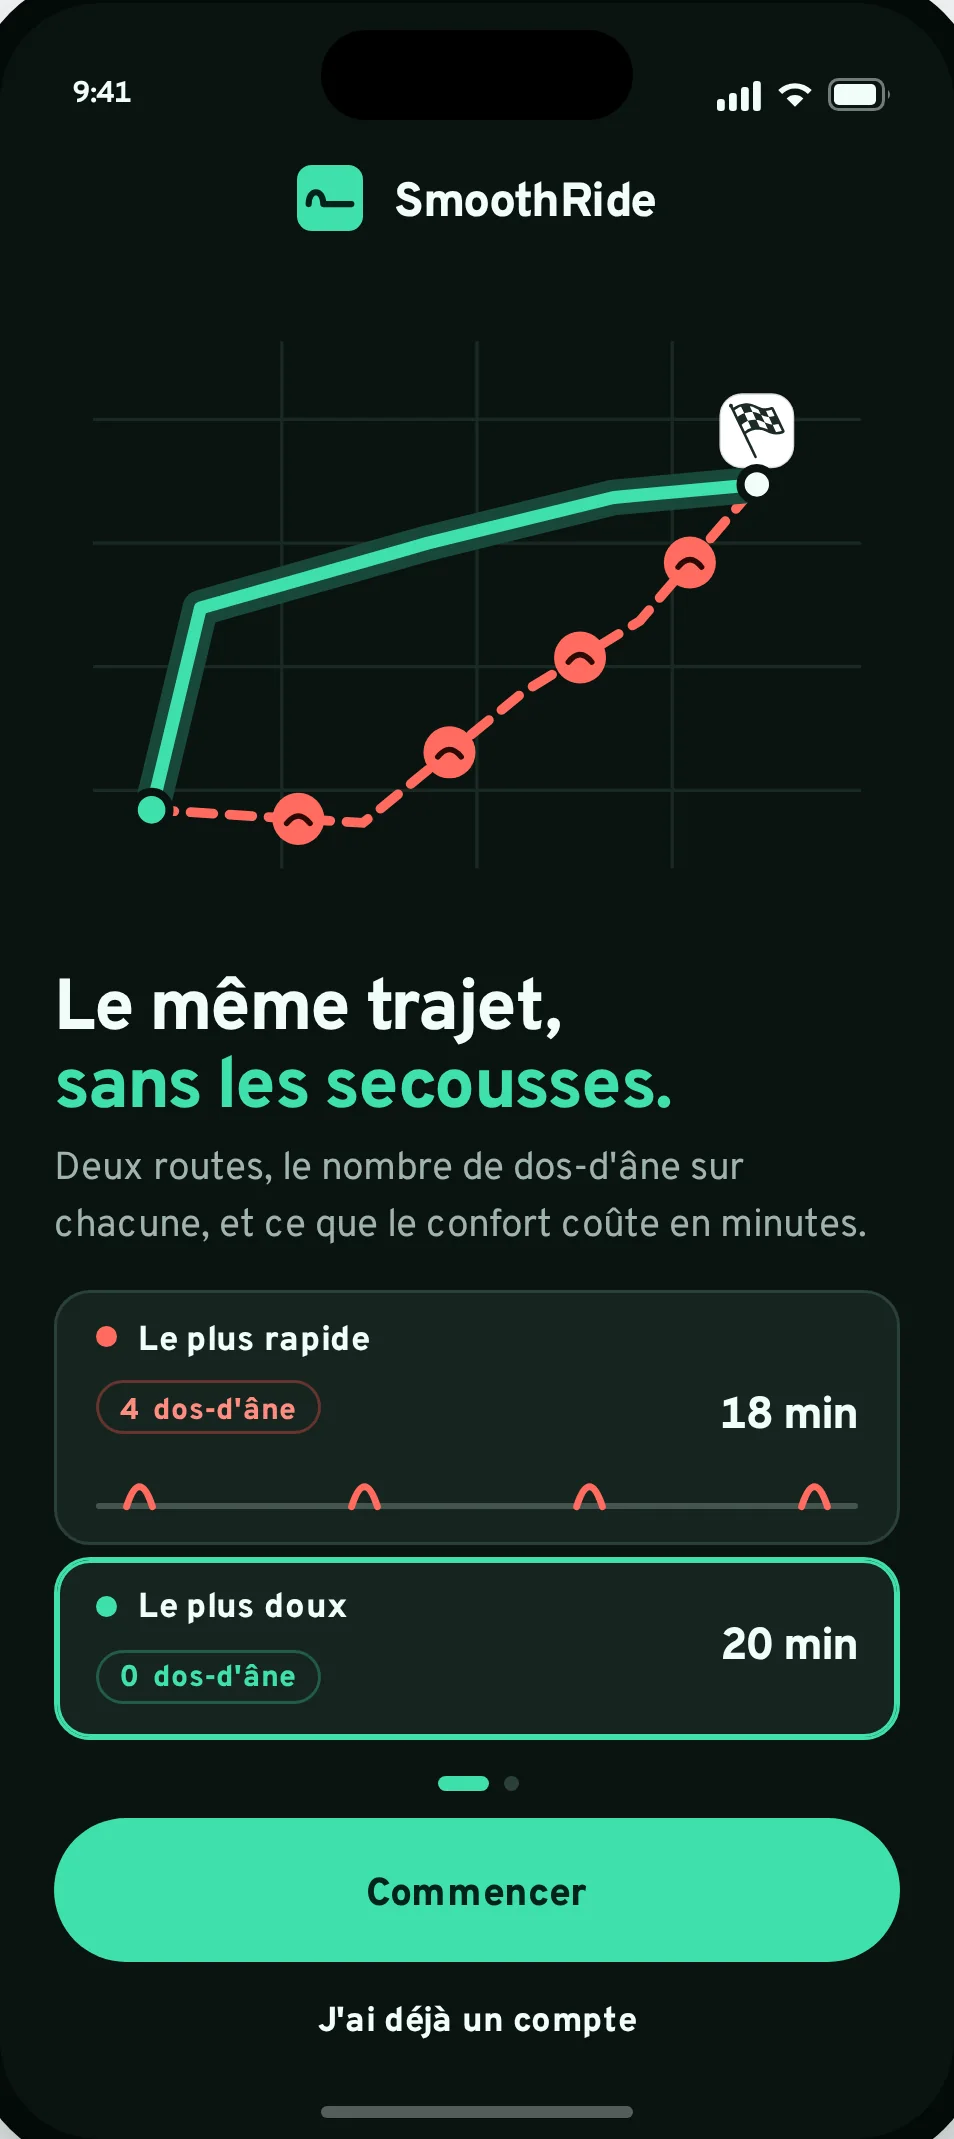
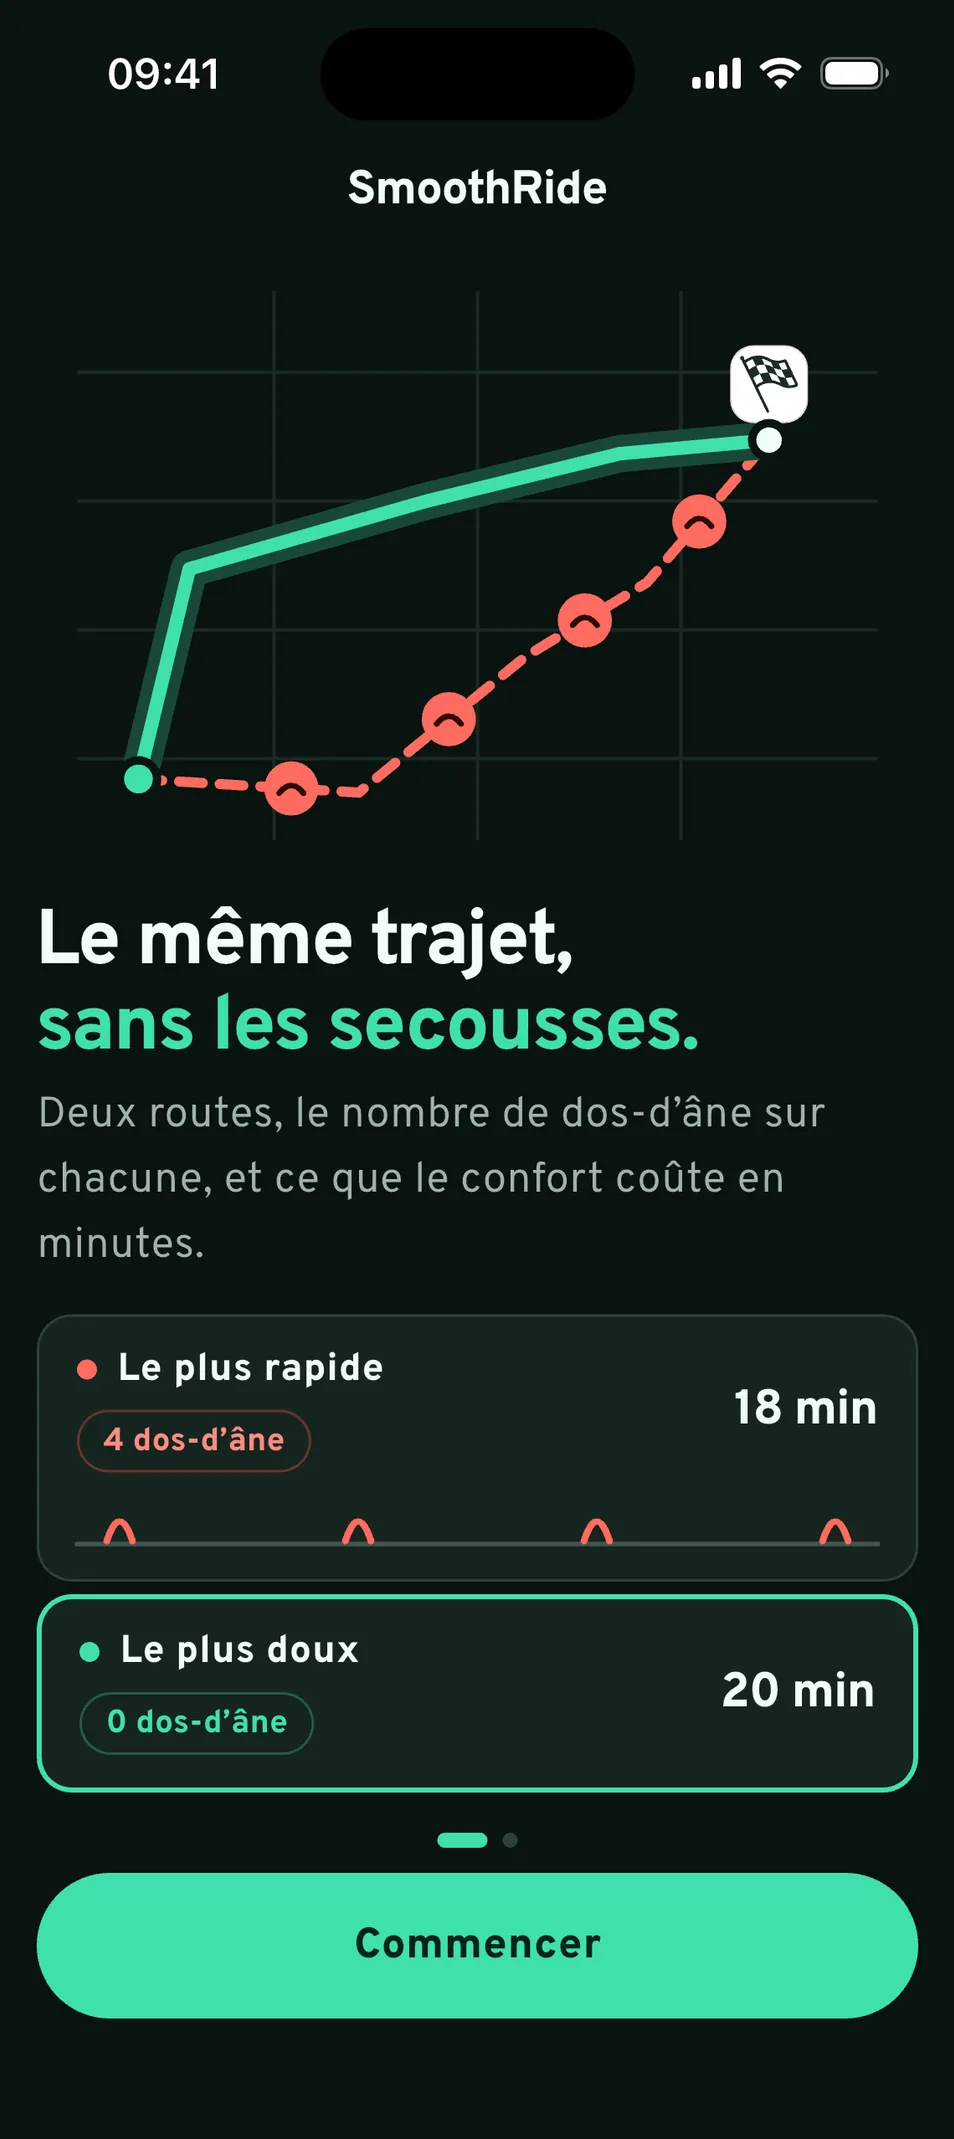
L'onboarding du hero et la FAQ disent ce que l'app fait
Le hero montrait un rendu de maquette, avec une ligne « J'ai deja un
compte » que le premier ecran de l'app ne porte pas. Remplace par la
vraie capture, barre d'etat figee comme les trois autres, batterie au
repos : le visiteur voit l'ecran qu'il aura.

La FAQ affirmait que la position n'est lue « que pendant que l'app est
ouverte, jamais en arriere-plan ». C'est faux et c'est la phrase qu'un
examinateur Apple compare a la declaration de confidentialite : pendant
un trajet, le guidage continue ecran eteint, sinon il s'arreterait au
premier appel. Hors trajet, rien n'est lu. Une phrase rassurante et
fausse coute plus cher qu'une phrase absente.

diff --git a/src/pages/Support.tsx b/src/pages/Support.tsx
@@ -38,7 +38,7 @@ export default function Support() {
       <Section titre="Questions fréquentes">
         <Liste
           items={[
-            <><strong>Pourquoi l'app demande ma position ?</strong> Sans elle, {app.nom} ne peut ni afficher les dos-d'âne autour de toi, ni calculer ton trajet, ni te guider. Elle n'est utilisée que pendant que l'app est ouverte, jamais en arrière-plan.</>,
+            <><strong>Pourquoi l'app demande ma position ?</strong> Sans elle, {app.nom} ne peut ni afficher les dos-d'âne autour de toi, ni calculer ton trajet, ni te guider. Pendant un trajet, elle continue quand l'écran s'éteint ou que tu passes sur une autre application, sinon le guidage s'arrêterait au premier appel. En dehors d'un trajet, {app.nom} ne la lit pas.</>,
             <><strong>J'ai refusé la position, l'app ne fait plus rien.</strong> Elle reste consultable, mais pas de trajet possible. Pour la réactiver : Réglages de ton téléphone › {app.nom} › Position.</>,
             <><strong>Combien ça coûte ?</strong> Le prix et ce qui est compris sont affichés dans l'app avant toute souscription, et le paiement passe par l'App Store ou Google Play, sans engagement.</>,
             <><strong>Comment résilier ?</strong> Depuis les réglages de ton compte Apple ou Google (Abonnements), à tout moment. L'abonnement reste actif jusqu'à la fin de la période déjà payée.</>,
